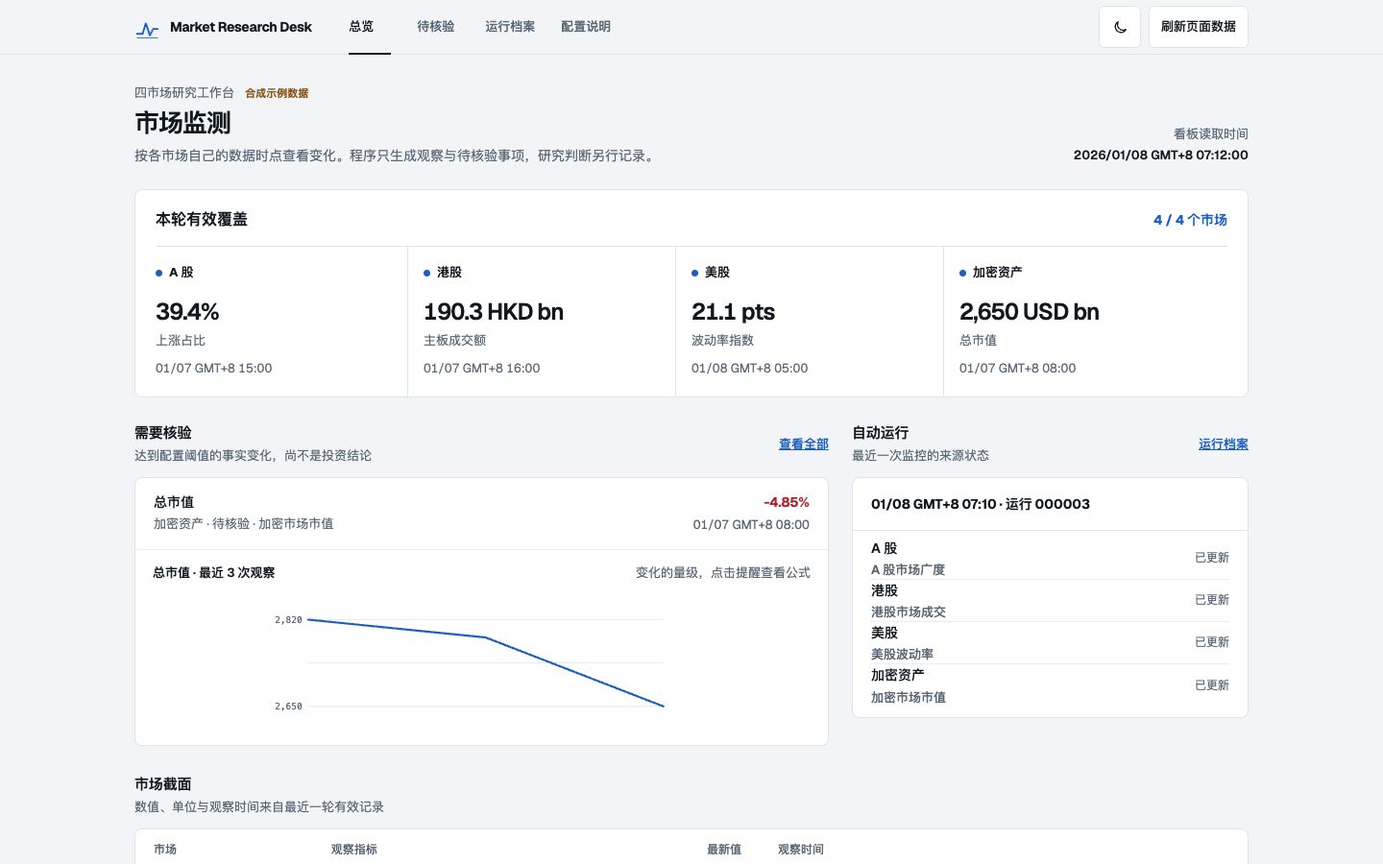
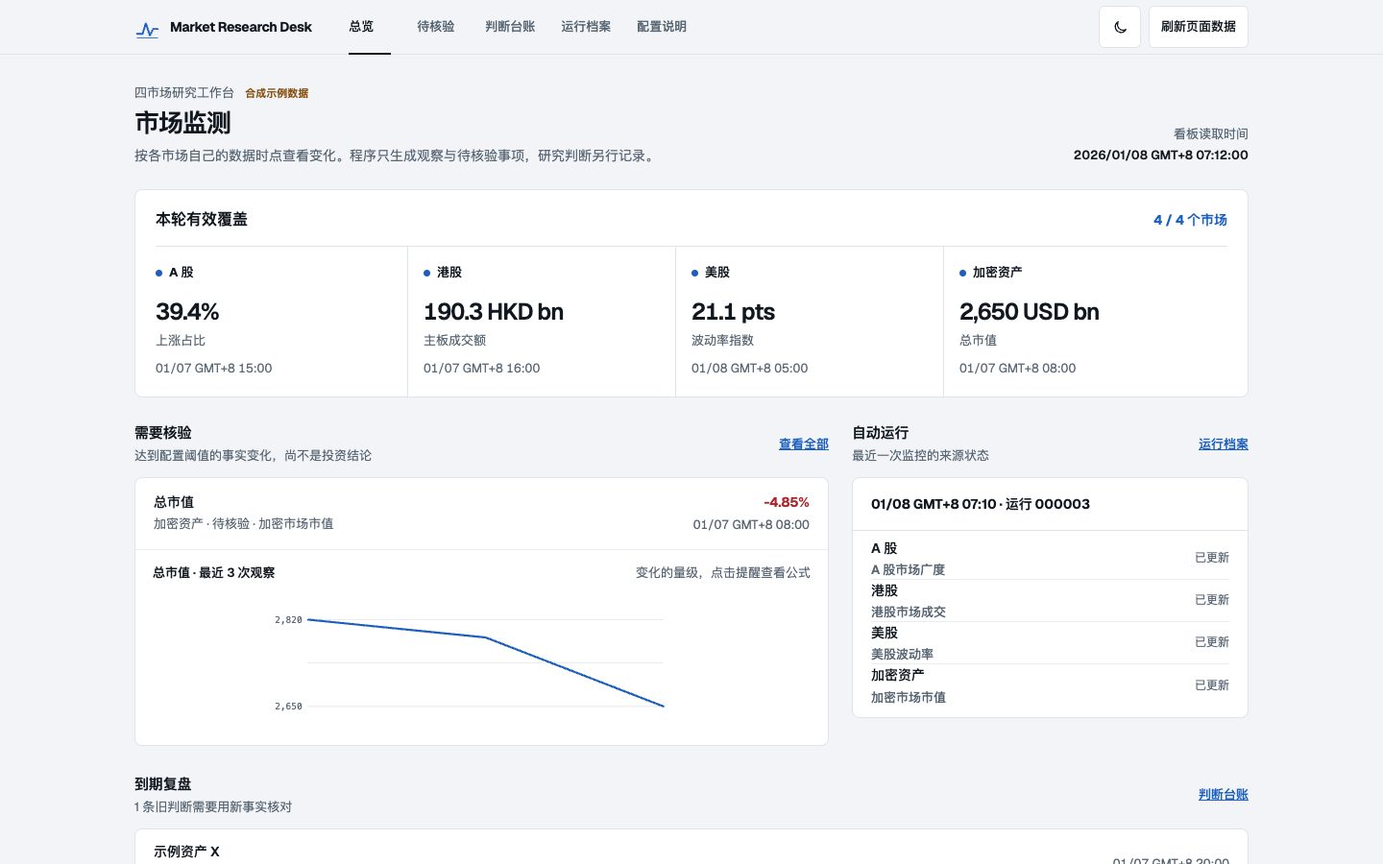
Add private decision import and review view

diff --git a/public/app.js b/public/app.js
@@ -32,7 +32,7 @@ function signed(value, unit = '') {
   return `${value > 0 ? '+' : ''}${number(value, unit)}`;
 }
 function escAttr(value) { return escapeHtml(value); }
-function nav() { return ['overview', 'alerts', 'runs', 'about'].includes(location.hash.slice(1)) ? location.hash.slice(1) : 'overview'; }
+function nav() { return ['overview', 'alerts', 'decisions', 'runs', 'about'].includes(location.hash.slice(1)) ? location.hash.slice(1) : 'overview'; }
 function pageHead(title, subtitle) {
   return `<header class="page-head"><div><p class="eyebrow">四市场研究工作台 ${new URLSearchParams(location.search).has('sample') ? '<span class="sample-flag">合成示例数据</span>' : ''}</p><h1 class="page-title">${title}</h1><p class="page-subtitle">${subtitle}</p></div><div class="head-meta">看板读取时间<strong>${fullTime(state.generatedAt)}</strong></div></header>`;
 }
@@ -61,6 +61,9 @@ function overview() {
   const contextPoints = primaryAlert ? state.runs.map(r => r.observations?.find(o => o.sourceId === primaryAlert.sourceId && o.metricId === primaryAlert.metricId)).filter(Boolean).reverse() : [];
   const alertContext = contextPoints.length >= 2 ? `<div class="trend-snippet"><div class="trend-caption"><strong>${escapeHtml(primaryAlert.label)} · 最近 ${contextPoints.length} 次观察</strong><span>变化的量级，点击提醒查看公式</span></div>${trendSvg(contextPoints)}</div>` : '';
   const sourceRows = state.latest?.sources?.map(s => `<div class="health-item"><span class="source-name">${names[s.market] || escapeHtml(s.market)} <span class="row-sub">${escapeHtml(s.id)}</span></span><span class="source-state ${escAttr(s.status)}">${statusNames[s.status] || escapeHtml(s.status)}</span></div>`).join('') || '';
+  const due = (state.decisions || []).filter(d => d.reviewAt && !d.verifiedAt && Date.parse(d.reviewAt) <= Date.parse(state.generatedAt));
+  const dueRows = due.slice(0, 3).map(d => `<li><button class="data-row" type="button" data-decision="${escAttr(d.id)}"><span><span class="row-title">${escapeHtml(d.asset)}</span><span class="row-sub">${names[d.market]} · ${escapeHtml(d.verdict)} · 到期复核</span></span><span class="row-right"><span class="row-date">${dateTime(d.reviewAt)}</span></span></button></li>`).join('');
+  const dueSection = due.length ? `<section class="due-section">${sectionHead('到期复盘', `${due.length} 条旧判断需要用新事实核对`, '<a class="section-link" href="#decisions">判断台账</a>')}<div class="panel"><ul class="row-list">${dueRows}</ul></div></section>` : '';
   const matrix = marketEntries.map(([id, data]) => {
     const o = data.observations[0];
     return `<tr><td class="market-name">${names[id]}</td><td class="muted">${o ? escapeHtml(o.label) : statusNames[data.status] || '无数据'}</td><td class="number">${o ? number(o.value, o.unit) : '—'}</td><td class="muted">${o ? dateTime(o.asOf) : '—'}</td><td class="view-cell"><button class="text-button" type="button" data-market="${escAttr(id)}">查看证据</button></td></tr>`;
@@ -69,7 +72,19 @@ function overview() {
     `<section class="panel coverage-panel" aria-label="四市场覆盖"><div class="coverage-intro"><strong>本轮有效覆盖</strong><span class="coverage-count">${covered} / 4 个市场</span></div><div class="coverage-grid">${rail}</div></section>` +
     `<div class="work-grid"><section>${sectionHead('需要核验', '达到配置阈值的事实变化，尚不是投资结论', '<a class="section-link" href="#alerts">查看全部</a>')}<div class="panel">${alerts.length ? `<ul class="row-list">${alertRows}</ul>${alertContext}` : empty('没有待核验提醒', '运行监控后，命中阈值且有可比历史值的变化会出现在这里。')}</div></section>` +
     `<section>${sectionHead('自动运行', '最近一次监控的来源状态', '<a class="section-link" href="#runs">运行档案</a>')}<div class="panel">${sourceRows ? `<div class="panel-head"><span class="section-title">${dateTime(state.latest.startedAt)} · 运行 ${escapeHtml(state.latest.runId.slice(-6))}</span></div><div class="health-list">${sourceRows}</div>` : empty('等待首次运行', '用配置文件接入来源，并在服务器执行监控命令。')}</div></section></div>` +
-    `<section>${sectionHead('市场截面', '数值、单位与观察时间来自最近一轮有效记录')}<div class="panel matrix-panel"><div class="table-wrap"><table class="matrix"><thead><tr><th>市场</th><th>观察指标</th><th>最新值</th><th>观察时间</th><th></th></tr></thead><tbody>${matrix}</tbody></table></div></div><div class="below-note"><span><i class="line-mark"></i> 有效覆盖</span><span>失效来源不沿用旧值触发提醒</span><span>点击市场查看历史与来源</span></div></section>`;
+    `${dueSection}<section>${sectionHead('市场截面', '数值、单位与观察时间来自最近一轮有效记录')}<div class="panel matrix-panel"><div class="table-wrap"><table class="matrix"><thead><tr><th>市场</th><th>观察指标</th><th>最新值</th><th>观察时间</th><th></th></tr></thead><tbody>${matrix}</tbody></table></div></div><div class="below-note"><span><i class="line-mark"></i> 有效覆盖</span><span>失效来源不沿用旧值触发提醒</span><span>点击市场查看历史与来源</span></div></section>`;
+}
+
+function decisionsPage() {
+  const items = state.decisions || [];
+  const due = items.filter(d => d.reviewAt && !d.verifiedAt && Date.parse(d.reviewAt) <= Date.parse(state.generatedAt));
+  const selected = due[0] || items[0];
+  const rows = items.map(d => `<li><button class="data-row" type="button" data-decision="${escAttr(d.id)}"><span><span class="row-title">${escapeHtml(d.asset)}</span><span class="row-sub">${names[d.market]} · ${escapeHtml(d.verdict)} · ${dateTime(d.asOf)}</span></span><span class="row-right"><span class="delta ${d.reviewAt && !d.verifiedAt && Date.parse(d.reviewAt) <= Date.parse(state.generatedAt) ? 'negative' : ''}">${d.verifiedAt ? '已复核' : d.reviewAt ? '待复核' : '未设复核日'}</span><span class="row-date">${d.reviewAt ? dateTime(d.reviewAt) : '—'}</span></span></button></li>`).join('');
+  const preview = selected ? `<div class="decision-preview"><div class="decision-preview-top"><span>${names[selected.market]} · ${dateTime(selected.asOf)}</span><strong>${escapeHtml(selected.verdict)}</strong></div><h3>${escapeHtml(selected.asset)}</h3><div class="decision-fact"><span>核心依据</span><p>${escapeHtml(selected.thesis || '未提供')}</p></div><div class="decision-fact"><span>最强反证</span><p>${escapeHtml(selected.counterEvidence || '未提供')}</p></div><div class="decision-preview-foot"><span>复核 ${selected.reviewAt ? dateTime(selected.reviewAt) : '未设定'}</span><button class="text-button" type="button" data-decision="${escAttr(selected.id)}">查看完整判断</button></div></div>`
+    : empty('等待研究流程接入', '把监控提醒交给研究流程核对，再由私有台账导出有依据、有反证和复核日的判断。');
+  return pageHead('判断台账', '研究流程写入的判断在这里只读展示。阈值提醒不会自动生成投资结论。') +
+    `<section class="panel wide-panel decision-summary"><div class="summary-strip"><div><strong>${items.length}</strong><span>已导入判断</span></div><div><strong>${due.length}</strong><span>到期复核</span></div><div><strong>${items.filter(d => d.verifiedAt).length}</strong><span>已复核</span></div></div>${state.decisionError ? '<div class="error-notice">部分判断记录格式无效，请检查私有导出文件。</div>' : ''}</section>` +
+    `<section class="panel decision-workspace"><div class="decision-list-pane"><div class="panel-head"><div><h2 class="section-title">研究记录</h2><p class="section-note">保留每次判断和后续复核</p></div></div>${rows ? `<ul class="row-list">${rows}</ul>` : empty('尚无研究判断', '可由私有研究流程导出 decisions.jsonl。')}</div><div class="decision-preview-pane"><div class="panel-head"><div><h2 class="section-title">判断摘要</h2><p class="section-note">当前最需要复核的观点</p></div></div>${preview}</div></section>`;
 }
 
 function alertsPage() {
@@ -93,7 +108,7 @@ function aboutPage() {
 }
 
 function openDetail(html) {
-  lastFocus = document.activeElement;
+  if (detailLayer.hidden) lastFocus = document.activeElement;
   detailLayer.innerHTML = `<div class="detail-panel" role="dialog" aria-modal="true" aria-label="证据详情">${html}</div>`;
   detailLayer.hidden = false;
   document.body.classList.add('has-detail');
@@ -113,9 +128,11 @@ function alertDetail(id) {
   if (!a) return;
   const source = state.runs.find(r => r.runId === a.runId)?.sources.find(s => s.id === a.sourceId);
   const link = safeUrl(source?.sourceUrl);
+  const thresholds = [a.thresholds?.absolute != null ? `绝对变化 ≥ ${number(a.thresholds.absolute, a.unit)}` : '',
+    a.thresholds?.percent != null ? `相对变化 ≥ ${number(a.thresholds.percent, '%')}` : ''].filter(Boolean).join('；') || '见本轮规则定义';
   openDetail(detailHead(`${names[a.market] || a.market} · 待核验`, a.label) +
     `<div class="detail-measure"><div><span>前次有效读数</span><strong>${number(a.before, a.unit)}</strong></div><div><span>本次读数</span><strong>${number(a.after, a.unit)}</strong></div></div>` +
-    `<section class="detail-section"><h3>变化计算</h3><dl class="fact-list"><dt>绝对变化</dt><dd>${signed(a.difference, a.unit)}</dd><dt>相对变化</dt><dd>${signed(a.percent, '%')}</dd><dt>公式</dt><dd>${escapeHtml(a.formula)}</dd><dt>前次时点</dt><dd>${fullTime(a.beforeAsOf)}</dd><dt>本次时点</dt><dd>${fullTime(a.asOf)}</dd></dl></section>` +
+    `<section class="detail-section"><h3>变化计算</h3><dl class="fact-list"><dt>绝对变化</dt><dd>${signed(a.difference, a.unit)}</dd><dt>相对变化</dt><dd>${signed(a.percent, '%')}</dd><dt>触发阈值</dt><dd>${thresholds}</dd><dt>公式</dt><dd>${escapeHtml(a.formula)}</dd><dt>前次时点</dt><dd>${fullTime(a.beforeAsOf)}</dd><dt>本次时点</dt><dd>${fullTime(a.asOf)}</dd></dl></section>` +
     `<section class="detail-section"><h3>证据定位</h3><dl class="fact-list"><dt>运行 ID</dt><dd class="inline-code">${escapeHtml(a.runId)}</dd><dt>提醒 ID</dt><dd class="inline-code">${escapeHtml(a.id)}</dd><dt>来源</dt><dd>${escapeHtml(a.sourceId)}</dd><dt>来源网址</dt><dd>${link ? `<a href="${link}" target="_blank" rel="noopener noreferrer">${escapeHtml(source.sourceUrl)}</a>` : '未提供公开网址'}</dd><dt>研究状态</dt><dd>待核验；尚无投资结论</dd></dl></section>`);
 }
 function runDetail(id) {
@@ -149,11 +166,24 @@ function marketDetail(id) {
     `<section class="detail-section"><h3>来源与时间</h3><dl class="fact-list"><dt>指标</dt><dd>${current ? escapeHtml(current.label) : '未接入或本轮无有效值'}</dd><dt>观察时间</dt><dd>${current ? fullTime(current.asOf) : '—'}</dd><dt>采集时间</dt><dd>${current ? fullTime(current.fetchedAt) : '—'}</dd><dt>来源</dt><dd>${source ? escapeHtml(source.id) : '—'}</dd><dt>来源网址</dt><dd>${link ? `<a href="${link}" target="_blank" rel="noopener noreferrer">${escapeHtml(source.sourceUrl)}</a>` : '未提供公开网址'}</dd></dl></section>`);
 }
 
+function decisionDetail(id) {
+  const d = (state.decisions || []).find(item => item.id === id);
+  if (!d) return;
+  const evidence = Array.isArray(d.evidenceRunIds) ? d.evidenceRunIds.map(runId => state.runs.some(r => r.runId === runId)
+    ? `<button class="text-button evidence-link" type="button" data-run="${escAttr(runId)}">${escapeHtml(runId)}</button>`
+    : `<span class="inline-code">${escapeHtml(runId)} · 不在最近索引中</span>`).join('') : '';
+  openDetail(detailHead(`${names[d.market]} · 研究判断`, d.asset) +
+    `<div class="detail-measure"><div><span>本轮结论</span><strong class="status-value">${escapeHtml(d.verdict)}</strong></div><div><span>适用价格</span><strong>${number(d.price, d.currency || '')}</strong></div></div>` +
+    `<section class="detail-section"><h3>判断范围</h3><dl class="fact-list"><dt>研究时间</dt><dd>${fullTime(d.asOf)}</dd><dt>研究期限</dt><dd>${escapeHtml(d.horizon || '未注明')}</dd><dt>复核日期</dt><dd>${d.reviewAt ? fullTime(d.reviewAt) : '未设定'}</dd><dt>复核状态</dt><dd>${d.verifiedAt ? `已复核 · ${fullTime(d.verifiedAt)}` : '待复核'}</dd></dl></section>` +
+    `<section class="detail-section"><h3>依据与反证</h3><dl class="fact-list"><dt>核心依据</dt><dd>${escapeHtml(d.thesis || '未提供')}</dd><dt>最强反证</dt><dd>${escapeHtml(d.counterEvidence || '未提供')}</dd><dt>证伪条件</dt><dd>${escapeHtml(d.invalidatedBy || '未提供')}</dd></dl></section>` +
+    `<section class="detail-section"><h3>证据关联</h3><dl class="fact-list"><dt>判断 ID</dt><dd class="inline-code">${escapeHtml(d.id)}</dd><dt>运行档案</dt><dd>${evidence || '未关联运行'}</dd></dl></section>`);
+}
+
 function render() {
   if (!state) return;
   const section = nav();
   document.querySelectorAll('[data-nav]').forEach(a => a.setAttribute('aria-current', a.dataset.nav === section ? 'page' : 'false'));
-  app.innerHTML = ({ overview, alerts: alertsPage, runs: runsPage, about: aboutPage })[section]();
+  app.innerHTML = ({ overview, alerts: alertsPage, decisions: decisionsPage, runs: runsPage, about: aboutPage })[section]();
 }
 async function load() {
   try {
@@ -165,12 +195,13 @@ async function load() {
   } catch { app.innerHTML = '<div class="error-notice">暂时无法读取运行档案。请检查本机服务和数据目录。</div>'; }
 }
 document.addEventListener('click', event => {
-  const target = event.target.closest('[data-alert],[data-run],[data-market],[data-close]');
+  const target = event.target.closest('[data-alert],[data-run],[data-market],[data-decision],[data-close]');
   if (!target) return;
   if (target.dataset.close !== undefined) closeDetail();
   else if (target.dataset.alert) alertDetail(target.dataset.alert);
   else if (target.dataset.run) runDetail(target.dataset.run);
   else if (target.dataset.market) marketDetail(target.dataset.market);
+  else if (target.dataset.decision) decisionDetail(target.dataset.decision);
 });
 detailLayer.addEventListener('click', event => { if (event.target === detailLayer) closeDetail(); });
 document.addEventListener('keydown', event => {

diff --git a/src/core.js b/src/core.js
@@ -111,6 +111,37 @@ export async function readRuns(root = dataDir(), limit = 20) {
   return runs;
 }
 
+export async function readDecisions(root = dataDir()) {
+  let content;
+  try { content = await fs.readFile(path.join(root, 'decisions.jsonl'), 'utf8'); }
+  catch (error) { return { items: [], error: error.code !== 'ENOENT' }; }
+  const items = [];
+  let error = false;
+  for (const line of content.split('\n').filter(Boolean)) {
+    try {
+      const item = JSON.parse(line);
+      if (typeof item.id !== 'string' || !item.id || !markets.includes(item.market) ||
+          typeof item.asset !== 'string' || !item.asset || typeof item.verdict !== 'string' || !item.verdict ||
+          typeof item.asOf !== 'string' || Number.isNaN(Date.parse(item.asOf)) ||
+          (item.reviewAt && (typeof item.reviewAt !== 'string' || Number.isNaN(Date.parse(item.reviewAt)))) ||
+          (item.verifiedAt && (typeof item.verifiedAt !== 'string' || Number.isNaN(Date.parse(item.verifiedAt))))) throw new Error('Invalid decision');
+      // Explicitly allowlist browser-visible fields. Private exports may carry account data.
+      items.push({ id: String(item.id), market: item.market, asset: String(item.asset),
+        verdict: String(item.verdict), asOf: item.asOf,
+        price: typeof item.price === 'number' && Number.isFinite(item.price) ? item.price : null,
+        currency: item.currency ? String(item.currency) : null,
+        horizon: item.horizon ? String(item.horizon) : null,
+        thesis: item.thesis ? String(item.thesis) : null,
+        counterEvidence: item.counterEvidence ? String(item.counterEvidence) : null,
+        invalidatedBy: item.invalidatedBy ? String(item.invalidatedBy) : null,
+        reviewAt: item.reviewAt || null, verifiedAt: item.verifiedAt || null,
+        evidenceRunIds: Array.isArray(item.evidenceRunIds) ? item.evidenceRunIds.filter(v => typeof v === 'string').slice(0, 20) : [] });
+    } catch { error = true; }
+  }
+  items.sort((a, b) => b.asOf.localeCompare(a.asOf));
+  return { items: items.slice(0, 100), error };
+}
+
 export function compare(current, previous, source, existingAlertIds = new Set()) {
   const alerts = [];
   for (const item of current) {
@@ -128,6 +159,7 @@ export function compare(current, previous, source, existingAlertIds = new Set())
     alerts.push({ id, market: item.market, sourceId: source.id, metricId: item.metricId,
       label: item.label, before: old.value, after: item.value, unit: item.unit, difference, percent,
       beforeAsOf: old.asOf, asOf: item.asOf, severity: 'review', status: 'unverified',
+      thresholds: { absolute: metric.alertAbsolute ?? null, percent: metric.alertPercent ?? null },
       formula: percent == null ? 'current - previous' : '(current - previous) / abs(previous) × 100' });
   }
   return alerts;
@@ -150,9 +182,14 @@ export async function sendNotifications(alerts, runId, channels = ['telegram', '
   }
   if (channels.includes('webhook') && process.env.ALERT_WEBHOOK_URL) {
     try {
+      const endpoint = new URL(process.env.ALERT_WEBHOOK_URL);
+      const local = ['localhost', '127.0.0.1', '[::1]'].includes(endpoint.hostname);
+      if ((endpoint.protocol !== 'https:' && !(endpoint.protocol === 'http:' && local)) || endpoint.username || endpoint.password) {
+        throw new Error('Webhook URL must use HTTPS without embedded credentials');
+      }
       const headers = { 'content-type': 'application/json' };
       if (process.env.ALERT_WEBHOOK_BEARER) headers.authorization = `Bearer ${process.env.ALERT_WEBHOOK_BEARER}`;
-      const response = await fetch(process.env.ALERT_WEBHOOK_URL, { method: 'POST', headers,
+      const response = await fetch(endpoint, { method: 'POST', headers,
         body: JSON.stringify({ runId, alertIds: alerts.map(a => a.id), message, url: base }), signal: AbortSignal.timeout(10000) });
       results.push({ channel: 'webhook', status: response.ok ? 'sent' : 'failed', code: response.status });
     } catch { results.push({ channel: 'webhook', status: 'failed' }); }
@@ -169,8 +206,12 @@ export async function collect(root = dataDir(), config) {
   const existingAlertIds = new Set(prior.flatMap(run => (run.alerts || []).map(a => a.id)));
   const observations = [], alerts = [], sources = [];
   for (const source of config.sources) {
+    const definition = { kind: source.kind, maxAgeMinutes: source.maxAgeMinutes || null,
+      metrics: source.metrics.map(metric => ({ id: metric.id, label: metric.label || metric.id,
+        path: metric.path, asOfPath: metric.asOfPath || null, unit: metric.unit,
+        alertAbsolute: metric.alertAbsolute ?? null, alertPercent: metric.alertPercent ?? null })) };
     if (source.kind === 'http-json' && !process.env[source.urlEnv]) {
-      sources.push({ id: source.id, market: source.market, status: 'unconfigured' });
+      sources.push({ id: source.id, market: source.market, status: 'unconfigured', definition });
       continue;
     }
     try {
@@ -192,10 +233,10 @@ export async function collect(root = dataDir(), config) {
         }
       }
       sources.push({ id: source.id, market: source.market, status: validItems.length ? 'ok' : items.length ? 'stale' : 'missing',
-        fetchedAt, count: items.length, validCount: validItems.length, sourceUrl: publicUrl || sourceUrl?.origin || null });
+        fetchedAt, count: items.length, validCount: validItems.length, sourceUrl: publicUrl || sourceUrl?.origin || null, definition });
     } catch (error) {
       // Do not persist raw exception text; URLs and credentials may appear there.
-      sources.push({ id: source.id, market: source.market, status: 'failed', error: error.message.startsWith('Source returned HTTP') ? error.message : 'Collection failed' });
+      sources.push({ id: source.id, market: source.market, status: 'failed', error: error.message.startsWith('Source returned HTTP') ? error.message : 'Collection failed', definition });
     }
   }
   const run = { schemaVersion: 1, runId, startedAt, finishedAt: new Date().toISOString(),
@@ -235,6 +276,7 @@ export async function retryNotifications(root = dataDir()) {
 
 export async function dashboardState(root = dataDir()) {
   const runs = await readRuns(root, 50);
+  const decisions = await readDecisions(root);
   const latest = runs[0] || null;
   const latestByMarket = Object.fromEntries(markets.map(market => {
     const observation = runs.flatMap(r => r.observations || []).find(o => o.market === market && o.quality !== 'stale');
@@ -246,6 +288,7 @@ export async function dashboardState(root = dataDir()) {
   }));
   return { generatedAt: new Date().toISOString(), latest, markets: latestByMarket,
     alerts: runs.flatMap(r => (r.alerts || []).map(a => ({ ...a, runId: r.runId }))).slice(0, 100),
+    decisions: decisions.items, decisionError: decisions.error,
     runs: runs.map(r => ({ runId: r.runId, startedAt: r.startedAt, finishedAt: r.finishedAt,
       sources: r.sources, observations: r.observations, observationCount: r.observations.length, alertCount: r.alerts.length })) };
 }

diff --git a/tests/core.test.js b/tests/core.test.js
@@ -4,7 +4,7 @@ import fs from 'node:fs/promises';
 import os from 'node:os';
 import path from 'node:path';
 import http from 'node:http';
-import { collect, compare, dashboardState, extract, readRuns, sendNotifications } from '../src/core.js';
+import { collect, compare, dashboardState, extract, readRuns, readDecisions, sendNotifications } from '../src/core.js';
 
 test('factual alerts require a newer comparable observation and are deduplicated', () => {
   const source = { id: 'test-source', metrics: [{ id: 'breadth', alertAbsolute: 5 }] };
@@ -13,6 +13,7 @@ test('factual alerts require a newer comparable observation and are deduplicated
   const alerts = compare(current, prior, source);
   assert.equal(alerts.length, 1);
   assert.equal(alerts[0].difference, 7);
+  assert.equal(alerts[0].thresholds.absolute, 5);
   assert.equal(compare(current, prior, source, new Set([alerts[0].id])).length, 0);
   assert.equal(compare([{ ...current[0], asOf: prior[0].asOf }], prior, source).length, 0);
   assert.equal(compare([{ ...current[0], unit: 'USD' }], prior, source).length, 0);
@@ -36,7 +37,7 @@ test('missing fields do not become zero observations', () => {
 test('monitor archives immutable runs and leaves unconfigured sources explicit', async () => {
   const root = await fs.mkdtemp(path.join(os.tmpdir(), 'market-desk-test-'));
   try {
-    const config = { version: 1, sources: [{ id: 'unset-source', market: 'a-share', kind: 'http-json', urlEnv: 'MARKET_DESK_TEST_UNSET', metrics: [] }] };
+    const config = { version: 1, sources: [{ id: 'unset-source', market: 'a-share', kind: 'http-json', urlEnv: 'MARKET_DESK_TEST_UNSET', headers: { Authorization: 'Bearer private-test-value' }, metrics: [] }] };
     const first = await collect(root, config);
     const second = await collect(root, config);
     assert.notEqual(first.runId, second.runId);
@@ -49,6 +50,7 @@ test('monitor archives immutable runs and leaves unconfigured sources explicit',
     assert.equal(state.alerts.length, 0);
     const saved = await fs.readFile(path.join(root, 'runs', first.runId, 'run.json'), 'utf8');
     assert.equal(JSON.parse(saved).runId, first.runId);
+    assert.ok(!saved.includes('private-test-value'));
   } finally { await fs.rm(root, { recursive: true, force: true }); }
 });
 
@@ -88,5 +90,32 @@ test('webhook receives alert identifiers without a credential in the body', asyn
     if (previous.bearer === undefined) delete process.env.ALERT_WEBHOOK_BEARER; else process.env.ALERT_WEBHOOK_BEARER = previous.bearer;
     if (previous.telegram === undefined) delete process.env.TELEGRAM_BOT_TOKEN; else process.env.TELEGRAM_BOT_TOKEN = previous.telegram;
     await new Promise(resolve => server.close(resolve));
+  }
+});
+
+test('private decision export is read-only and malformed records are isolated', async () => {
+  const root = await fs.mkdtemp(path.join(os.tmpdir(), 'market-desk-decisions-'));
+  try {
+    const valid = { id: 'test-decision', market: 'us', asset: 'Example', verdict: 'insufficient evidence', asOf: '2026-01-01T00:00:00Z', reviewAt: '2026-01-02T00:00:00Z', apiToken: 'must-not-reach-browser' };
+    const file = path.join(root, 'decisions.jsonl');
+    await fs.writeFile(file, JSON.stringify(valid) + '\n{broken json}\n');
+    const before = await fs.readFile(file, 'utf8');
+    const result = await readDecisions(root);
+    assert.equal(result.items.length, 1);
+    assert.equal(result.items[0].id, 'test-decision');
+    assert.ok(!JSON.stringify(result.items).includes('must-not-reach-browser'));
+    assert.equal(result.error, true);
+    assert.equal(await fs.readFile(file, 'utf8'), before);
+  } finally { await fs.rm(root, { recursive: true, force: true }); }
+});
+
+test('webhook refuses cleartext delivery to a remote host', async () => {
+  const prior = process.env.ALERT_WEBHOOK_URL;
+  try {
+    process.env.ALERT_WEBHOOK_URL = 'http://example.com/hook';
+    const result = await sendNotifications([{ id: 'alert-remote' }], 'run-remote', ['webhook']);
+    assert.equal(result[0].status, 'failed');
+  } finally {
+    if (prior === undefined) delete process.env.ALERT_WEBHOOK_URL; else process.env.ALERT_WEBHOOK_URL = prior;
   }
 });

diff --git a/public/app.css b/public/app.css
@@ -11,4 +11,8 @@
 .status-mark.stale{background:var(--warning)}.source-state.stale{color:var(--warning)}
 .refresh-button{display:inline-flex;align-items:center;gap:7px}.refresh-button svg{display:none;width:17px;height:17px;fill:none;stroke:currentColor;stroke-width:1.8;stroke-linecap:round;stroke-linejoin:round}@media(max-width:650px){.refresh-button{display:grid;place-items:center;width:44px;min-width:44px;padding:0}.refresh-button svg{display:block}.refresh-button span{display:none}.brand span{font-size:13px}}
 .detail-head h2{overflow-wrap:anywhere}.panel-head .section-title{font-family:Geist,ui-sans-serif,sans-serif;font-size:14px}
+.due-section{margin-bottom:29px}.evidence-link{max-width:100%;overflow-wrap:anywhere;text-align:left}
+.decision-summary{margin-bottom:25px}.decision-grid{display:grid;grid-template-columns:minmax(0,.85fr) minmax(0,1.15fr);gap:24px;align-items:start}.decision-preview{padding:21px 22px}.decision-preview-top,.decision-preview-foot{display:flex;justify-content:space-between;gap:12px;align-items:center;color:var(--muted);font-size:13px}.decision-preview-top strong{color:var(--warning);font-weight:600}.decision-preview h3{font-size:21px;line-height:1.2;margin:19px 0 20px;letter-spacing:-.025em}.decision-fact{border-top:1px solid var(--rule);padding:13px 0}.decision-fact span{display:block;color:var(--muted);font-size:12px}.decision-fact p{font-size:14px;line-height:1.5;margin:6px 0 0}.decision-preview-foot{border-top:1px solid var(--rule);padding-top:8px}@media(max-width:850px){.decision-grid{grid-template-columns:1fr}}
+.decision-workspace{display:grid;grid-template-columns:minmax(0,.85fr) minmax(0,1.15fr);overflow:hidden}.decision-list-pane{border-right:1px solid var(--border)}.decision-workspace .panel-head{min-height:68px}.decision-workspace .panel-head .section-title{font-family:Geist,ui-sans-serif,sans-serif}.decision-workspace .panel-head .section-note{margin:2px 0 0}@media(max-width:850px){.decision-workspace{grid-template-columns:1fr}.decision-list-pane{border-right:0;border-bottom:1px solid var(--border)}}
+.decision-summary .summary-strip div:nth-child(2) strong{color:var(--accent)}
 @media(prefers-reduced-motion:no-preference){button,a{transition:background-color .16s ease,color .16s ease,border-color .16s ease}.detail-panel{animation:panel-in .18s ease-out}@keyframes panel-in{from{transform:translateX(14px);opacity:.7}to{transform:translateX(0);opacity:1}}}

diff --git a/public/index.html b/public/index.html
@@ -20,6 +20,7 @@
       <nav class="main-nav" aria-label="主要页面">
         <a href="#overview" data-nav="overview">总览</a>
         <a href="#alerts" data-nav="alerts">待核验</a>
+        <a href="#decisions" data-nav="decisions">判断台账</a>
         <a href="#runs" data-nav="runs">运行档案</a>
         <a href="#about" data-nav="about">配置说明</a>
       </nav>

diff --git a/README.md b/README.md
@@ -11,6 +11,7 @@ These screenshots use fictional, explicitly labelled sample data. The default in
 | Desktop | Phone |
 | --- | --- |
 | ![Synthetic sample dashboard at desktop width](docs/screenshots/overview-desktop-sample.jpg) | ![Synthetic sample dashboard at phone width](docs/screenshots/overview-mobile-sample.jpg) |
+| ![Synthetic research decision ledger at desktop width](docs/screenshots/decisions-desktop-sample.jpg) | ![Synthetic research decision ledger at phone width](docs/screenshots/decisions-mobile-sample.jpg) |
 
 ## Quick start
 
@@ -69,11 +70,23 @@ For a local script, place a `.mjs` file in `scripts/monitors/` and configure `ki
 
 ## Archive and notifications
 
-Each run is written to `DATA_DIR/runs/<run-id>/run.json` through an atomic rename. A failed or missing source is recorded, and a stale value never becomes a new alert. The app keeps only configured observations and source metadata, not raw third-party payloads or full-market intraday prices. It never stores a URL's query string or HTTP authorization header. Notification delivery results are separate files in `DATA_DIR/`; a failed notification does not change the immutable observation run.
+Each run is written to `DATA_DIR/runs/<run-id>/run.json` through an atomic rename. A failed or missing source is recorded, and a stale value never becomes a new alert. The archive records each metric's field mapping, unit and threshold so an old alert remains explainable after configuration changes. It keeps only configured observations and source metadata, not raw third-party payloads or full-market intraday prices. It never stores a URL's query string or HTTP authorization header. Notification delivery results are separate files in `DATA_DIR/`; a failed notification does not change the immutable observation run.
 
 Set `TELEGRAM_BOT_TOKEN` and `TELEGRAM_CHAT_ID` for Telegram, or `ALERT_WEBHOOK_URL` and optional `ALERT_WEBHOOK_BEARER` for an outbound webhook. Alerts contain only a count, alert IDs, run ID, optional dashboard URL, and a reminder that no investment conclusion was generated. Bot tokens and recipients stay in the private environment, never in Git, logs, or alert bodies. Notifications are only sent for newly generated alerts.
 
 If delivery fails, run `node src/cli.js retry` to retry channels without a recorded successful send. Telegram cannot guarantee exactly-once delivery if a process crashes after sending but before recording success; the alert ID helps recognize a duplicate.
+
+## Read-only research decisions
+
+A private research process can export one JSON object per line to `DATA_DIR/decisions.jsonl`. The dashboard reads it but never writes judgments. Keep this file outside the Git repository or inside the ignored `data/` directory. An example record shape:
+
+```json
+{"id":"research-001","market":"crypto","asset":"Example Asset","verdict":"insufficient evidence","asOf":"2026-01-07T12:00:00Z","price":null,"currency":"USD","horizon":"30 days","thesis":"Evidence to check","counterEvidence":"Strongest contrary observation","invalidatedBy":"Condition that would reverse this view","reviewAt":"2026-02-07T12:00:00Z","evidenceRunIds":["run-id-from-archive"]}
+```
+
+`market` is one of `a-share`, `hong-kong`, `us`, or `crypto`. `reviewAt` marks an item as due once that time passes; `verifiedAt` marks a completed review. Preserve revisions as separate records with new IDs rather than overwriting an old judgment. This format is an import contract, not an alternative write path for an existing private research ledger.
+
+The web API returns only the documented decision fields; extra fields in a private export are discarded. Any text placed in `thesis`, `counterEvidence`, or similar displayed fields is still visible to authenticated dashboard viewers, so keep account details and credentials out of them.
 
 Schedule `npm run monitor` with a host scheduler. [`docs/deploy/systemd.md`](docs/deploy/systemd.md) gives a Linux example. The dashboard starts with `npm start` and reads archives; it does not schedule monitoring itself.
 
@@ -81,7 +94,7 @@ Schedule `npm run monitor` with a host scheduler. [`docs/deploy/systemd.md`](doc
 
 By default the dashboard listens on `127.0.0.1:4173`. To access it remotely, put an authentication layer in front of a Tunnel or reverse proxy. For Cloudflare, create a private Access application and a Tunnel route to the loopback service; verify that an unauthenticated browser cannot load the page or `/api/state` before adding real research data. `ALLOW_REMOTE=1` is required to bind a non-loopback address and should only be used behind an authenticated proxy.
 
-Keep personal holdings, deep research, reports, database indexes, and decisions in a private storage location. If a private research process later writes decisions, it should link to a `runId` and its underlying evidence; this public monitor does not publish or infer investment judgments. Check each data provider's license before retaining or redistributing observations.
+Keep personal holdings, deep research, reports, database indexes, and decisions in a private storage location. If a private research process exports decisions, link each one to a run ID and its evidence. The public repository contains no real judgments, and the monitor does not infer them. Check each data provider's license before retaining or redistributing observations.
 
 ## Development
 

diff --git a/docs/verification.md b/docs/verification.md
@@ -3,7 +3,7 @@
 - `npm run check`: unit and integration checks for comparable alerts, missing and stale observations, immutable runs, local script collection, and webhook credential separation.
 - `node --check public/app.js` and `node --check src/server.js`: syntax pass.
 - `frontend-design` UI audit at 390px and 1440px: no horizontal overflow, contrast failures, emoji, unnamed controls, missing landmarks, or console errors. A strict Content Security Policy prevents the audit script from injecting an inline style for its keyboard probe; keyboard navigation and detail escape were checked separately in Chrome.
-- `taste-skill inspect --app`: empty and synthetic sample each returned 0 FAIL and 0 WARN at 1440px, 768px and 390px. Screenshots were inspected for both data states.
-- Chrome walkthrough: overview, alert evidence, market trend, market filter, run evidence, theme switch, and phone refresh control all worked. The phone layout had no horizontal overflow.
+- `taste-skill inspect --app`: overview in empty and synthetic states returned 0 FAIL and 0 WARN at 1440px, 768px and 390px. The judgment screen returned 0 FAIL and one `no-data-hue` warning; it has no chart, and its due count uses the data accent. Screenshots were inspected for both data states.
+- Chrome walkthrough: overview, alert evidence, market trend, market filter, run evidence, judgment detail and linked run, theme switch, and phone refresh control all worked. The phone layout had no horizontal overflow.
 
 Hosted authentication, live source coverage, Telegram delivery, VPS timers, and Cloudflare routing were not tested in this local repository build. The synthetic sample is fictional and explicitly labelled.

diff --git a/docs/architecture/market-research-desk-design-md.md b/docs/architecture/market-research-desk-design-md.md
@@ -26,11 +26,14 @@ Tokens: ground `#f2f4f7`; surface `#fff`; text `#0a0a0a`; muted `#626b76`; borde
 
 The data accent marks actual coverage and the current time series. Status colors are limited to small text and markers. This keeps the finance display legible without confusing price direction with evidence quality. Light mode is the primary design; dark mode follows the same hierarchy.
 
+The visual inspector reports `no-data-hue` on the judgment page even though that page contains no chart. The judgment's due count uses the blue data accent; a fabricated chart would make the evidence less clear.
+
 ## Screens and interactions
 
 - Overview: current run/time, coverage rail, top factual alerts, four-market matrix, recent observations and run health.
 - Alerts: filter by market and severity; open an alert to read old and new values, unit, timestamps, source and formula.
 - Runs: list immutable runs and source failures; open each run's observations.
+- Decisions: read private imported judgments, show the original scope and counterevidence, and surface reviews due by date. The monitor never writes this file.
 - Source detail: show source URL and timestamp from the run, with an explicit missing/failed state.
 - Settings: documentation only in this first read-only build; configuration is edited on the host and reloaded on the next monitor run.
 

diff --git a/docs/coverage-matrix.md b/docs/coverage-matrix.md
@@ -7,6 +7,7 @@ This matrix describes the repository's first release. “Local pass” means it 
 | Overview and four-market coverage | Pass | Pass | Pass | Pass | Pass | Local pass |
 | Alert list, market filter, evidence panel | Pass | Pass | Pass | Pass | Pass | Local pass |
 | Run list and run evidence | Pass | Pass | Pass | Pass | Pass | Local pass |
+| Decision ledger and due review | Pass | Pass | Pass | Pass | Pass | Local pass |
 | Configuration guidance | Pass | Pass | Pass | Pass | Pass | Local pass |
 | HTTP JSON and local script monitors | Unconfigured state | Local script test | N/A | N/A | N/A | Local pass |
 | Telegram notification | Unset state | N/A | N/A | N/A | N/A | Code only; no live bot credentials used |
